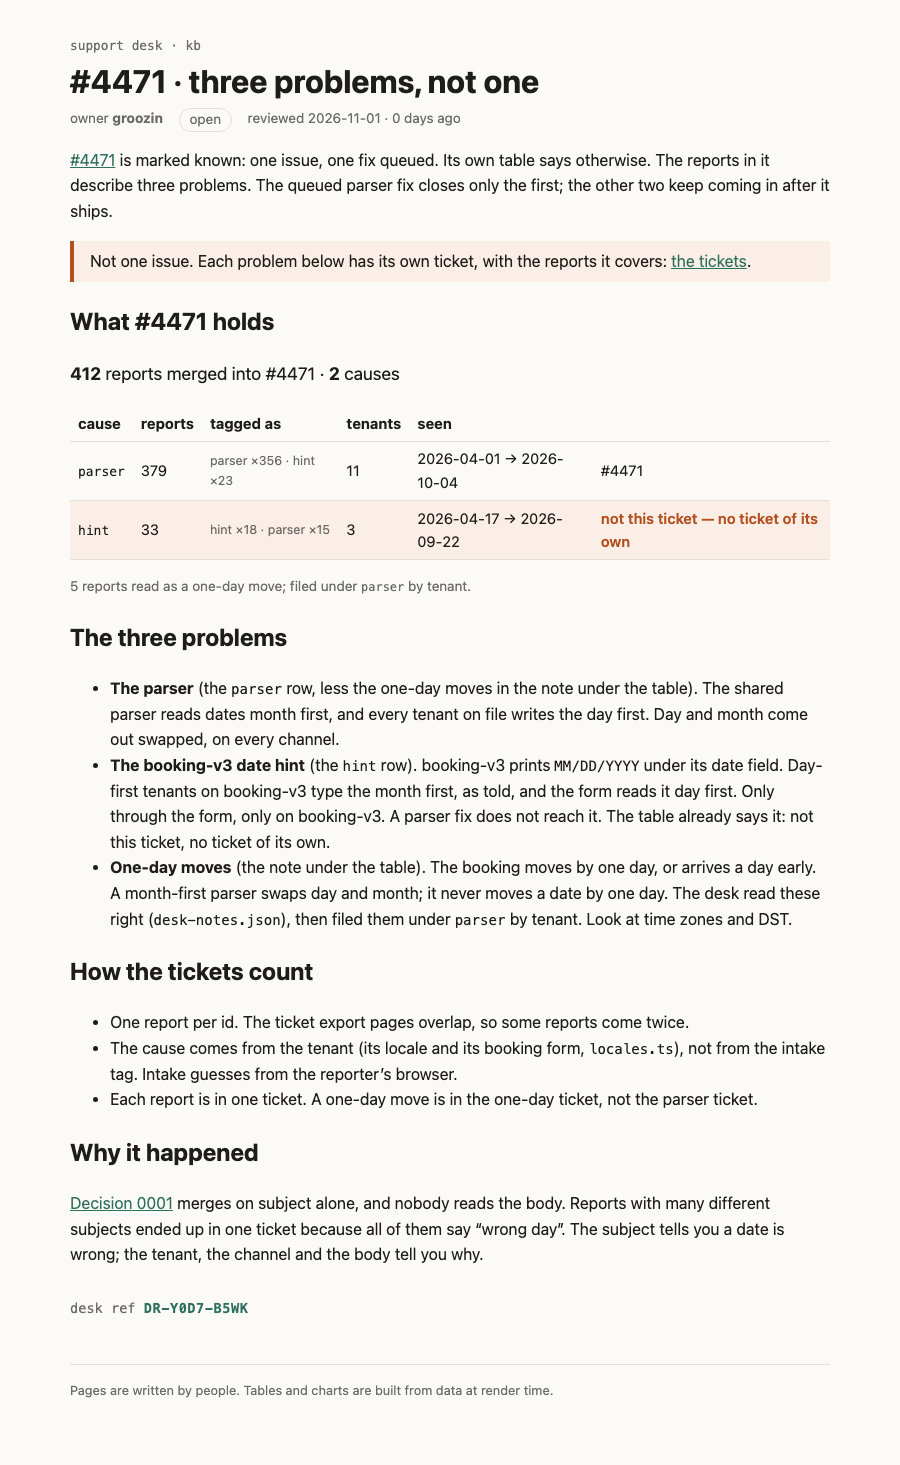
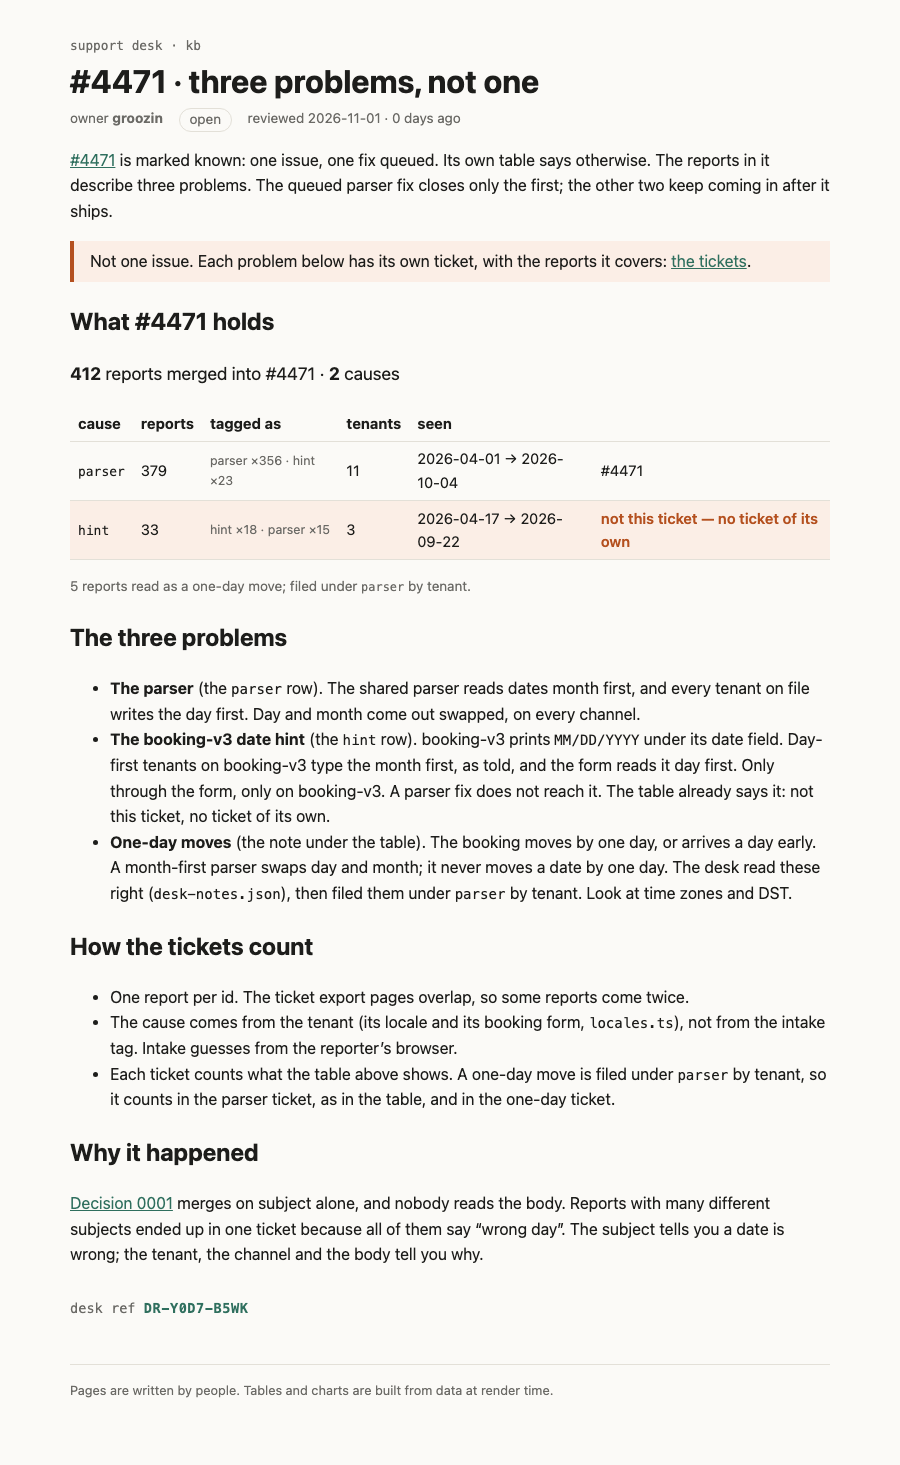
Count the parser ticket as the desk's table does (379)

Changed region(s): [[0.0622, 0.4608, 0.9333, 0.7679]]

diff --git a/build/kb/incidents/4471-problems.html b/build/kb/incidents/4471-problems.html
@@ -9,11 +9,11 @@
 		<link href="../../_app/immutable/chunks/CptVIHXj.js" rel="modulepreload">
 		<link href="../../_app/immutable/chunks/CHfFqfNT.js" rel="modulepreload">
 		<link href="../../_app/immutable/chunks/DQG8lHS1.js" rel="modulepreload">
-		<link href="../../_app/immutable/entry/app.BiFnqiQm.js" rel="modulepreload">
+		<link href="../../_app/immutable/entry/app.CSwg5HPN.js" rel="modulepreload">
 		<link href="../../_app/immutable/nodes/0.Izv2btRW.js" rel="modulepreload">
 		<link href="../../_app/immutable/chunks/DK3Fl9T5.js" rel="modulepreload">
-		<link href="../../_app/immutable/nodes/5.DfGojtYJ.js" rel="modulepreload">
-		<link href="../../_app/immutable/chunks/Bc8CQffw.js" rel="modulepreload">
+		<link href="../../_app/immutable/nodes/5.BqEwe9iF.js" rel="modulepreload">
+		<link href="../../_app/immutable/chunks/D3TbzlJx.js" rel="modulepreload">
 		<link href="../../_app/immutable/chunks/DkoUumqI.js" rel="modulepreload">
 		<link href="../../_app/immutable/chunks/BevyIGF0.js" rel="modulepreload">
 		<link href="../../_app/immutable/chunks/DcZ9TEUN.js" rel="modulepreload">
@@ -26,7 +26,7 @@
   <body data-sveltekit-preload-data="hover">
     <div style="display: contents"><!--[--><!--[--><!--[0--><!--[--><!--[--><!--[-1--><!--[--><div class="kb svelte-e2jw2j"><header><a class="crumb svelte-e2jw2j" href="/kb">support desk · kb</a> <h1 class="svelte-e2jw2j">#4471 · three problems, not one</h1> <p class="meta svelte-e2jw2j"><span>owner <b>groozin</b></span> <span class="status open svelte-e2jw2j">open</span> <span class="svelte-e2jw2j">reviewed 2026-11-01 · 0 days ago</span></p></header> <!--[-1--><!--]--> <main><p><a href="/kb/incidents/4471">#4471</a> is marked known: one issue, one fix queued. Its own table says otherwise.
 The reports in it describe three problems. The queued parser fix closes only the first; the other two
-keep coming in after it ships.</p> <aside class="warn svelte-17bri61"><!---->Not one issue. Each problem below has its own ticket, with the reports it covers: <a href="https://github.com/groozin/s01e03-what-it-shows/issues">the tickets</a>.<!----></aside><!----> <h2>What #4471 holds</h2> <p class="sum svelte-12oyimm"><strong>412</strong> reports merged into #4471 · <strong>2</strong> causes</p> <table><thead><tr><th>cause</th><th>reports</th><th>tagged as</th><th>tenants</th><th>seen</th><th></th></tr></thead><tbody><!--[--><tr class="svelte-12oyimm"><td class="svelte-12oyimm"><code>parser</code></td><td class="svelte-12oyimm">379</td><td class="tags svelte-12oyimm">parser ×356 · hint ×23</td><td class="svelte-12oyimm">11</td><td class="svelte-12oyimm">2026-04-01 → 2026-10-04</td><td class="svelte-12oyimm">#4471</td></tr><tr class="svelte-12oyimm wrong"><td class="svelte-12oyimm"><code>hint</code></td><td class="svelte-12oyimm">33</td><td class="tags svelte-12oyimm">hint ×18 · parser ×15</td><td class="svelte-12oyimm">3</td><td class="svelte-12oyimm">2026-04-17 → 2026-09-22</td><td class="svelte-12oyimm">not this ticket — no ticket of its own</td></tr><!--]--></tbody></table> <!--[--><!--[0--><p class="note svelte-12oyimm">5 reports read as a one-day move; filed under <code>parser</code> by tenant.</p><!--]--><!--[-1--><!--]--><!--]--><!----> <h2>The three problems</h2> <ul><li><strong>The parser</strong> (the <code>parser</code> row, less the one-day moves in the note under the table). The shared
+keep coming in after it ships.</p> <aside class="warn svelte-17bri61"><!---->Not one issue. Each problem below has its own ticket, with the reports it covers: <a href="https://github.com/groozin/s01e03-what-it-shows/issues">the tickets</a>.<!----></aside><!----> <h2>What #4471 holds</h2> <p class="sum svelte-12oyimm"><strong>412</strong> reports merged into #4471 · <strong>2</strong> causes</p> <table><thead><tr><th>cause</th><th>reports</th><th>tagged as</th><th>tenants</th><th>seen</th><th></th></tr></thead><tbody><!--[--><tr class="svelte-12oyimm"><td class="svelte-12oyimm"><code>parser</code></td><td class="svelte-12oyimm">379</td><td class="tags svelte-12oyimm">parser ×356 · hint ×23</td><td class="svelte-12oyimm">11</td><td class="svelte-12oyimm">2026-04-01 → 2026-10-04</td><td class="svelte-12oyimm">#4471</td></tr><tr class="svelte-12oyimm wrong"><td class="svelte-12oyimm"><code>hint</code></td><td class="svelte-12oyimm">33</td><td class="tags svelte-12oyimm">hint ×18 · parser ×15</td><td class="svelte-12oyimm">3</td><td class="svelte-12oyimm">2026-04-17 → 2026-09-22</td><td class="svelte-12oyimm">not this ticket — no ticket of its own</td></tr><!--]--></tbody></table> <!--[--><!--[0--><p class="note svelte-12oyimm">5 reports read as a one-day move; filed under <code>parser</code> by tenant.</p><!--]--><!--[-1--><!--]--><!--]--><!----> <h2>The three problems</h2> <ul><li><strong>The parser</strong> (the <code>parser</code> row). The shared
 parser reads dates month first, and every tenant on file writes the day first. Day and month come
 out swapped, on every channel.</li> <li><strong>The booking-v3 date hint</strong> (the <code>hint</code> row). booking-v3 prints <code>MM/DD/YYYY</code> under its date field.
 Day-first tenants on booking-v3 type the month first, as told, and the form reads it day first.
@@ -34,22 +34,23 @@ Only through the form, only on booking-v3. A parser fix does not reach it. The t
 it: not this ticket, no ticket of its own.</li> <li><strong>One-day moves</strong> (the note under the table). The booking moves by one day, or arrives a day early.
 A month-first parser swaps day and month; it never moves a date by one day. The desk read these
 right (<code>desk-notes.json</code>), then filed them under <code>parser</code> by tenant. Look at time zones and DST.</li></ul> <h2>How the tickets count</h2> <ul><li>One report per id. The ticket export pages overlap, so some reports come twice.</li> <li>The cause comes from the tenant (its locale and its booking form, <code>locales.ts</code>), not from the
-intake tag. Intake guesses from the reporter’s browser.</li> <li>Each report is in one ticket. A one-day move is in the one-day ticket, not the parser ticket.</li></ul> <h2>Why it happened</h2> <p><a href="/kb/decisions/0001-dedupe-by-subject">Decision 0001</a> merges on subject alone, and nobody reads the
+intake tag. Intake guesses from the reporter’s browser.</li> <li>Each ticket counts what the table above shows. A one-day move is filed under <code>parser</code> by tenant,
+so it counts in the parser ticket, as in the table, and in the one-day ticket.</li></ul> <h2>Why it happened</h2> <p><a href="/kb/decisions/0001-dedupe-by-subject">Decision 0001</a> merges on subject alone, and nobody reads the
 body. Reports with many different subjects ended up in one ticket because all of them say “wrong day”.
 The subject tells you a date is wrong; the tenant, the channel and the body tell you why.</p> <!--[0--><p class="stamp svelte-1280m42">desk ref <b class="svelte-1280m42">DR-Y0D7-B5WK</b></p><!--]--><!----><!----></main> <footer class="svelte-e2jw2j">Pages are written by people. Tables and charts are built from data at render time.</footer></div><!--]--><!--]--><!--]--><!----><!--]--><!--]--><!--]--><!----> <!--[-1--><!--]--><!--]-->
 			
 			<script>
 				{
-					__sveltekit_xknc9j = {
+					__sveltekit_zi1roe = {
 						base: new URL("../..", location).pathname.slice(0, -1),
-						version: "1793574150963"
+						version: "1793574207466"
 					};
 
 					const element = document.currentScript.parentElement;
 
 					import("../../_app/immutable/entry/start.D1HzdfF7.js").then(async (kit) => {
-						kit.init(__sveltekit_xknc9j);
-						const app = await import("../../_app/immutable/entry/app.BiFnqiQm.js");
+						kit.init(__sveltekit_zi1roe);
+						const app = await import("../../_app/immutable/entry/app.CSwg5HPN.js");
 						kit.start(app, element, {
 							node_ids: [0, 5],
 							data: [null,null],

diff --git a/build/_app/immutable/chunks/D3TbzlJx.js b/build/_app/immutable/chunks/D3TbzlJx.js
@@ -1,6 +1,6 @@
 import{t as e}from"./DK3Fl9T5.js";import{E as t,F as n,H as r,I as i,K as a,L as o,N as s,R as c,S as l,T as u,U as d,W as f,_ as p,c as m,k as h,q as g,r as _,t as v,w as y}from"./CHfFqfNT.js";import{t as b}from"./DkoUumqI.js";import{t as x}from"./BevyIGF0.js";import{t as S}from"./DcZ9TEUN.js";var C=`0123456789ABCDEFGHJKMNPQRSTVWXYZ`;function w(e,t){let n=t>>>0;for(let t=0;t<e.length;t++)n^=e.charCodeAt(t),n=Math.imul(n,16777619)>>>0;return n}function T(e){let t=e.trim(),n=w(t,2166136261),r=w(t,2654435769),i=BigInt(n)<<8n|BigInt(r&255),a=``;for(let e=0;e<8;e++)a=C[Number(i&31n)]+a,i>>=5n;return`DR-${a.slice(0,4)}-${a.slice(4)}`}var E=t(`<p class="stamp svelte-1280m42">desk ref <b class="svelte-1280m42"> </b></p>`),D=t(`<p class="stamp missing svelte-1280m42">no desk ref: this page isn't signed (no <code>signature</code> in its frontmatter)</p>`);function O(e,t){f(t,!0);let a=r(()=>t.signature?T(t.signature):null);var m=u(),_=i(m),v=e=>{var t=E(),r=c(n(t)),i=o(r,!0);g(t),s(()=>l(i,h(a))),y(e,t)},b=e=>{var t=D();y(e,t)};p(_,e=>{h(a)?e(v):e(b,-1)}),y(e,m),d()}var k=e({default:()=>z,metadata:()=>A}),A={layout:`runbook`,title:`#4471 · three problems, not one`,owner:`groozin`,status:`open`,reviewed:`2026-11-01T00:00:00.000Z`,signature:`groozin`},{layout:j,title:M,owner:N,status:P,reviewed:F,signature:I}=A,L=t(`Not one issue. Each problem below has its own ticket, with the reports it covers: <a>the tickets</a>.`,1),R=t(`<p><a href="/kb/incidents/4471">#4471</a> is marked known: one issue, one fix queued. Its own table says otherwise.
 The reports in it describe three problems. The queued parser fix closes only the first; the other two
-keep coming in after it ships.</p> <!> <h2>What #4471 holds</h2> <!> <h2>The three problems</h2> <ul><li><strong>The parser</strong> (the <code>parser</code> row, less the one-day moves in the note under the table). The shared
+keep coming in after it ships.</p> <!> <h2>What #4471 holds</h2> <!> <h2>The three problems</h2> <ul><li><strong>The parser</strong> (the <code>parser</code> row). The shared
 parser reads dates month first, and every tenant on file writes the day first. Day and month come
 out swapped, on every channel.</li> <li><strong>The booking-v3 date hint</strong> (the <code>hint</code> row). booking-v3 prints <code>MM/DD/YYYY</code> under its date field.
 Day-first tenants on booking-v3 type the month first, as told, and the form reads it day first.
@@ -8,6 +8,7 @@ Only through the form, only on booking-v3. A parser fix does not reach it. The t
 it: not this ticket, no ticket of its own.</li> <li><strong>One-day moves</strong> (the note under the table). The booking moves by one day, or arrives a day early.
 A month-first parser swaps day and month; it never moves a date by one day. The desk read these
 right (<code>desk-notes.json</code>), then filed them under <code>parser</code> by tenant. Look at time zones and DST.</li></ul> <h2>How the tickets count</h2> <ul><li>One report per id. The ticket export pages overlap, so some reports come twice.</li> <li>The cause comes from the tenant (its locale and its booking form, <code>locales.ts</code>), not from the
-intake tag. Intake guesses from the reporter’s browser.</li> <li>Each report is in one ticket. A one-day move is in the one-day ticket, not the parser ticket.</li></ul> <h2>Why it happened</h2> <p><a href="/kb/decisions/0001-dedupe-by-subject">Decision 0001</a> merges on subject alone, and nobody reads the
+intake tag. Intake guesses from the reporter’s browser.</li> <li>Each ticket counts what the table above shows. A one-day move is filed under <code>parser</code> by tenant,
+so it counts in the parser ticket, as in the table, and in the one-day ticket.</li></ul> <h2>Why it happened</h2> <p><a href="/kb/decisions/0001-dedupe-by-subject">Decision 0001</a> merges on subject alone, and nobody reads the
 body. Reports with many different subjects ended up in one ticket because all of them say “wrong day”.
 The subject tells you a date is wrong; the tenant, the channel and the body tell you why.</p> <!>`,1);function z(e,t){let n=v(t,[`children`,`$$slots`,`$$events`,`$$legacy`]);b(e,_(()=>n,()=>A,{children:(e,t)=>{var n=R(),r=c(i(n),2);S(r,{kind:`warn`,children:(e,t)=>{a();var n=L(),r=c(i(n));m(r,`href`,`https://github.com/groozin/s01e03-what-it-shows/issues`),a(),y(e,n)},$$slots:{default:!0}});var o=c(r,4);x(o,{ticket:4471}),O(c(o,14),{get signature(){return I}}),y(e,n)},$$slots:{default:!0}}))}export{z as n,k as t};

diff --git a/build/_app/immutable/nodes/2.BLd15zl-.js b/build/_app/immutable/nodes/2.BLd15zl-.js
@@ -1,0 +1,2 @@
+import{E as e,F as t,I as n,K as r,L as i,N as a,R as o,S as s,U as c,W as l,c as u,d,h as f,i as p,k as m,q as h,r as g,t as _,w as v}from"../chunks/CHfFqfNT.js";import{n as y,r as b,t as x}from"../chunks/DkoUumqI.js";import{t as S}from"../chunks/DCOWSXCS.js";import{t as C}from"../chunks/tJYeXOJ9.js";import{t as w}from"../chunks/D3TbzlJx.js";import{t as T}from"../chunks/Ce0JHbCm.js";var E=e(`<tr><td><a> </a></td><td> </td><td> </td><td> </td></tr>`),D=e(`<table><thead><tr><th>page</th><th>owner</th><th>status</th><th>reviewed</th></tr></thead><tbody></tbody></table>`);function O(e,n){l(n,!1);let r=Object.entries(Object.assign({"/src/routes/kb/decisions/0001-dedupe-by-subject/+page.svx":S,"/src/routes/kb/incidents/4471/+page.svx":C,"/src/routes/kb/incidents/4471-problems/+page.svx":w,"/src/routes/kb/triage/dedupe/+page.svx":T})).map(([e,t])=>({href:e.replace(`/src/routes`,``).replace(`/+page.svx`,``),...t.metadata})).sort((e,t)=>e.href.localeCompare(t.href));p();var g=D(),_=o(t(g));f(_,5,()=>r,e=>e.href,(e,n)=>{var r=E(),c=t(r),l=t(c),f=i(l,!0);h(c);var p=o(c),g=i(p,!0),_=o(p),x=i(_,!0),S=o(_);let C;var w=i(S,!0);h(r),a((e,t)=>{u(l,`href`,m(n).href),s(f,m(n).title),s(g,m(n).owner),s(x,m(n).status),C=d(S,1,`svelte-tbc1ha`,null,C,{stale:e}),s(w,t)},[()=>y(m(n).reviewed)>180,()=>b(m(n).reviewed)]),v(e,r)}),h(_),h(g),v(e,g),c()}var k={layout:`runbook`,title:`Support knowledge base`,owner:`support desk`,status:`living`,reviewed:`2026-09-28T00:00:00.000Z`},{layout:A,title:j,owner:M,status:N,reviewed:P}=k,F=e(`<p>What the support desk knows, kept next to the code that knows it. One desk, every product: <code>sched-prod</code> (calendar invites for about 300k people) and the rest. When something breaks, the reports land here first.</p> <p>Start with <a href="/kb/triage/dedupe">triage</a> if you are new on the desk.</p> <h2>Pages</h2> <!> <h2>Writing a page</h2> <p>Keep the words here and the logic in <code>src/lib</code>. A number that can be computed should be
+computed by a component, not typed into a paragraph.</p>`,1);function I(e,t){let i=_(t,[`children`,`$$slots`,`$$events`,`$$legacy`]);x(e,g(()=>i,()=>k,{children:(e,t)=>{var i=F();O(o(n(i),6),{}),r(4),v(e,i)},$$slots:{default:!0}}))}export{I as component};

diff --git a/build/kb.html b/build/kb.html
@@ -9,16 +9,16 @@
 		<link href="./_app/immutable/chunks/CptVIHXj.js" rel="modulepreload">
 		<link href="./_app/immutable/chunks/CHfFqfNT.js" rel="modulepreload">
 		<link href="./_app/immutable/chunks/DQG8lHS1.js" rel="modulepreload">
-		<link href="./_app/immutable/entry/app.BiFnqiQm.js" rel="modulepreload">
+		<link href="./_app/immutable/entry/app.CSwg5HPN.js" rel="modulepreload">
 		<link href="./_app/immutable/nodes/0.Izv2btRW.js" rel="modulepreload">
 		<link href="./_app/immutable/chunks/DK3Fl9T5.js" rel="modulepreload">
-		<link href="./_app/immutable/nodes/2.BrYENizY.js" rel="modulepreload">
+		<link href="./_app/immutable/nodes/2.BLd15zl-.js" rel="modulepreload">
 		<link href="./_app/immutable/chunks/DkoUumqI.js" rel="modulepreload">
 		<link href="./_app/immutable/chunks/DCOWSXCS.js" rel="modulepreload">
 		<link href="./_app/immutable/chunks/tJYeXOJ9.js" rel="modulepreload">
 		<link href="./_app/immutable/chunks/BevyIGF0.js" rel="modulepreload">
 		<link href="./_app/immutable/chunks/DcZ9TEUN.js" rel="modulepreload">
-		<link href="./_app/immutable/chunks/Bc8CQffw.js" rel="modulepreload">
+		<link href="./_app/immutable/chunks/D3TbzlJx.js" rel="modulepreload">
 		<link href="./_app/immutable/chunks/Ce0JHbCm.js" rel="modulepreload">
 		<!--e2jw2j--><!----><title>Support knowledge base · support kb</title>
 		<link href="./_app/immutable/assets/runbook.COyw0cbZ.css" rel="stylesheet">
@@ -35,16 +35,16 @@ computed by a component, not typed into a paragraph.</p><!----></main> <footer c
 			
 			<script>
 				{
-					__sveltekit_xknc9j = {
+					__sveltekit_zi1roe = {
 						base: new URL(".", location).pathname.slice(0, -1),
-						version: "1793574150963"
+						version: "1793574207466"
 					};
 
 					const element = document.currentScript.parentElement;
 
 					import("./_app/immutable/entry/start.D1HzdfF7.js").then(async (kit) => {
-						kit.init(__sveltekit_xknc9j);
-						const app = await import("./_app/immutable/entry/app.BiFnqiQm.js");
+						kit.init(__sveltekit_zi1roe);
+						const app = await import("./_app/immutable/entry/app.CSwg5HPN.js");
 						kit.start(app, element, {
 							node_ids: [0, 2],
 							data: [null,null],

diff --git a/build/_app/immutable/entry/app.CSwg5HPN.js b/build/_app/immutable/entry/app.CSwg5HPN.js
@@ -1,0 +1,2 @@
+const __vite__mapDeps=(i,m=__vite__mapDeps,d=(m.f||(m.f=["../nodes/0.Izv2btRW.js","../chunks/DK3Fl9T5.js","../chunks/CHfFqfNT.js","../nodes/1.xQrPtl8H.js","../chunks/DQG8lHS1.js","./payload.DSmR2FwN.js","../nodes/2.BLd15zl-.js","../chunks/DkoUumqI.js","../assets/runbook.COyw0cbZ.css","../chunks/DCOWSXCS.js","../chunks/tJYeXOJ9.js","../chunks/BevyIGF0.js","../chunks/DcZ9TEUN.js","../assets/Callout.AbLv9dM_.css","../assets/CauseTable.DuKfINX_.css","../assets/_page.BwRNheVv.css","../chunks/D3TbzlJx.js","../assets/_page.WePi3wDe.css","../chunks/Ce0JHbCm.js","../assets/_page.DO6Yid7X.css","../assets/2.Bt0MwIZg.css","../nodes/3.utlB90Ku.js","../nodes/4.IwKlRL78.js","../nodes/5.BqEwe9iF.js","../nodes/6.BZRQ87Zk.js"])))=>i.map(i=>d[i]);
+import{t as e}from"../chunks/CRzLMJPS.js";var t={},n=[()=>e(()=>import(`../nodes/0.Izv2btRW.js`),__vite__mapDeps([0,1,2]),import.meta.url),()=>e(()=>import(`../nodes/1.xQrPtl8H.js`),__vite__mapDeps([3,2,4,5]),import.meta.url),()=>e(()=>import(`../nodes/2.BLd15zl-.js`),__vite__mapDeps([6,2,7,8,9,1,10,11,12,13,14,15,16,17,18,19,20]),import.meta.url),()=>e(()=>import(`../nodes/3.utlB90Ku.js`),__vite__mapDeps([21,9,1,2,7,8]),import.meta.url),()=>e(()=>import(`../nodes/4.IwKlRL78.js`),__vite__mapDeps([22,10,1,2,7,8,11,12,13,14,15]),import.meta.url),()=>e(()=>import(`../nodes/5.BqEwe9iF.js`),__vite__mapDeps([23,16,1,2,7,8,11,12,13,14,17]),import.meta.url),()=>e(()=>import(`../nodes/6.BZRQ87Zk.js`),__vite__mapDeps([24,18,1,2,7,8,12,13,19]),import.meta.url)],r=[],i={"/kb":[2],"/kb/decisions/0001-dedupe-by-subject":[3],"/kb/incidents/4471-problems":[5],"/kb/incidents/4471":[4],"/kb/triage/dedupe":[6]},a={handleError:(({kind:e,error:t})=>{e===`unknown`&&console.error(t)}),reroute:(()=>{}),transport:{}},o=Object.fromEntries(Object.entries(a.transport).map(([e,t])=>[e,t.decode])),s=Object.fromEntries(Object.entries(a.transport).map(([e,t])=>[e,t.encode])),c=!1,l=(e,t)=>o[e](t),u=()=>e(()=>import(`../chunks/Bjy-W4x2.js`).then(e=>e.default),[],import.meta.url);export{l as decode,o as decoders,i as dictionary,s as encoders,u as get_error_template,c as hash,a as hooks,t as matchers,n as nodes,r as server_loads};

diff --git a/build/kb/decisions/0001-dedupe-by-subject.html b/build/kb/decisions/0001-dedupe-by-subject.html
@@ -9,7 +9,7 @@
 		<link href="../../_app/immutable/chunks/CptVIHXj.js" rel="modulepreload">
 		<link href="../../_app/immutable/chunks/CHfFqfNT.js" rel="modulepreload">
 		<link href="../../_app/immutable/chunks/DQG8lHS1.js" rel="modulepreload">
-		<link href="../../_app/immutable/entry/app.BiFnqiQm.js" rel="modulepreload">
+		<link href="../../_app/immutable/entry/app.CSwg5HPN.js" rel="modulepreload">
 		<link href="../../_app/immutable/nodes/0.Izv2btRW.js" rel="modulepreload">
 		<link href="../../_app/immutable/chunks/DK3Fl9T5.js" rel="modulepreload">
 		<link href="../../_app/immutable/nodes/3.utlB90Ku.js" rel="modulepreload">
@@ -26,16 +26,16 @@ engineering merges them later.</li></ul><!----></main> <footer class="svelte-e2j
 			
 			<script>
 				{
-					__sveltekit_xknc9j = {
+					__sveltekit_zi1roe = {
 						base: new URL("../..", location).pathname.slice(0, -1),
-						version: "1793574150963"
+						version: "1793574207466"
 					};
 
 					const element = document.currentScript.parentElement;
 
 					import("../../_app/immutable/entry/start.D1HzdfF7.js").then(async (kit) => {
-						kit.init(__sveltekit_xknc9j);
-						const app = await import("../../_app/immutable/entry/app.BiFnqiQm.js");
+						kit.init(__sveltekit_zi1roe);
+						const app = await import("../../_app/immutable/entry/app.CSwg5HPN.js");
 						kit.start(app, element, {
 							node_ids: [0, 3],
 							data: [null,null],

diff --git a/build/kb/incidents/4471.html b/build/kb/incidents/4471.html
@@ -9,7 +9,7 @@
 		<link href="../../_app/immutable/chunks/CptVIHXj.js" rel="modulepreload">
 		<link href="../../_app/immutable/chunks/CHfFqfNT.js" rel="modulepreload">
 		<link href="../../_app/immutable/chunks/DQG8lHS1.js" rel="modulepreload">
-		<link href="../../_app/immutable/entry/app.BiFnqiQm.js" rel="modulepreload">
+		<link href="../../_app/immutable/entry/app.CSwg5HPN.js" rel="modulepreload">
 		<link href="../../_app/immutable/nodes/0.Izv2btRW.js" rel="modulepreload">
 		<link href="../../_app/immutable/chunks/DK3Fl9T5.js" rel="modulepreload">
 		<link href="../../_app/immutable/nodes/4.IwKlRL78.js" rel="modulepreload">
@@ -30,16 +30,16 @@ first. The fix is queued.</p> <aside class="note svelte-17bri61"><!---->Known. O
 			
 			<script>
 				{
-					__sveltekit_xknc9j = {
+					__sveltekit_zi1roe = {
 						base: new URL("../..", location).pathname.slice(0, -1),
-						version: "1793574150963"
+						version: "1793574207466"
 					};
 
 					const element = document.currentScript.parentElement;
 
 					import("../../_app/immutable/entry/start.D1HzdfF7.js").then(async (kit) => {
-						kit.init(__sveltekit_xknc9j);
-						const app = await import("../../_app/immutable/entry/app.BiFnqiQm.js");
+						kit.init(__sveltekit_zi1roe);
+						const app = await import("../../_app/immutable/entry/app.CSwg5HPN.js");
 						kit.start(app, element, {
 							node_ids: [0, 4],
 							data: [null,null],

diff --git a/build/kb/triage/dedupe.html b/build/kb/triage/dedupe.html
@@ -9,7 +9,7 @@
 		<link href="../../_app/immutable/chunks/CptVIHXj.js" rel="modulepreload">
 		<link href="../../_app/immutable/chunks/CHfFqfNT.js" rel="modulepreload">
 		<link href="../../_app/immutable/chunks/DQG8lHS1.js" rel="modulepreload">
-		<link href="../../_app/immutable/entry/app.BiFnqiQm.js" rel="modulepreload">
+		<link href="../../_app/immutable/entry/app.CSwg5HPN.js" rel="modulepreload">
 		<link href="../../_app/immutable/nodes/0.Izv2btRW.js" rel="modulepreload">
 		<link href="../../_app/immutable/chunks/DK3Fl9T5.js" rel="modulepreload">
 		<link href="../../_app/immutable/nodes/6.BZRQ87Zk.js" rel="modulepreload">
@@ -29,16 +29,16 @@ anything else.<!----></aside><!----> <h2>Try it</h2> <div class="try svelte-gq0h
 			
 			<script>
 				{
-					__sveltekit_xknc9j = {
+					__sveltekit_zi1roe = {
 						base: new URL("../..", location).pathname.slice(0, -1),
-						version: "1793574150963"
+						version: "1793574207466"
 					};
 
 					const element = document.currentScript.parentElement;
 
 					import("../../_app/immutable/entry/start.D1HzdfF7.js").then(async (kit) => {
-						kit.init(__sveltekit_xknc9j);
-						const app = await import("../../_app/immutable/entry/app.BiFnqiQm.js");
+						kit.init(__sveltekit_zi1roe);
+						const app = await import("../../_app/immutable/entry/app.CSwg5HPN.js");
 						kit.start(app, element, {
 							node_ids: [0, 6],
 							data: [null,null],

diff --git a/build/_app/immutable/nodes/5.BqEwe9iF.js b/build/_app/immutable/nodes/5.BqEwe9iF.js
@@ -1,0 +1,1 @@
+export{n as component}from"../chunks/D3TbzlJx.js";
